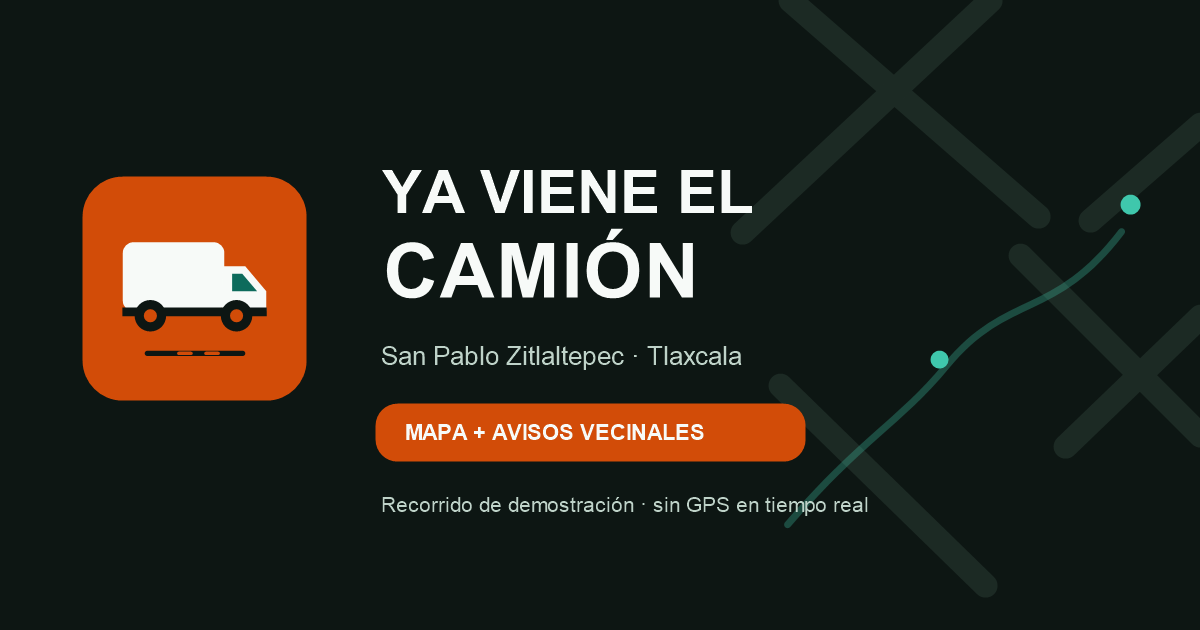
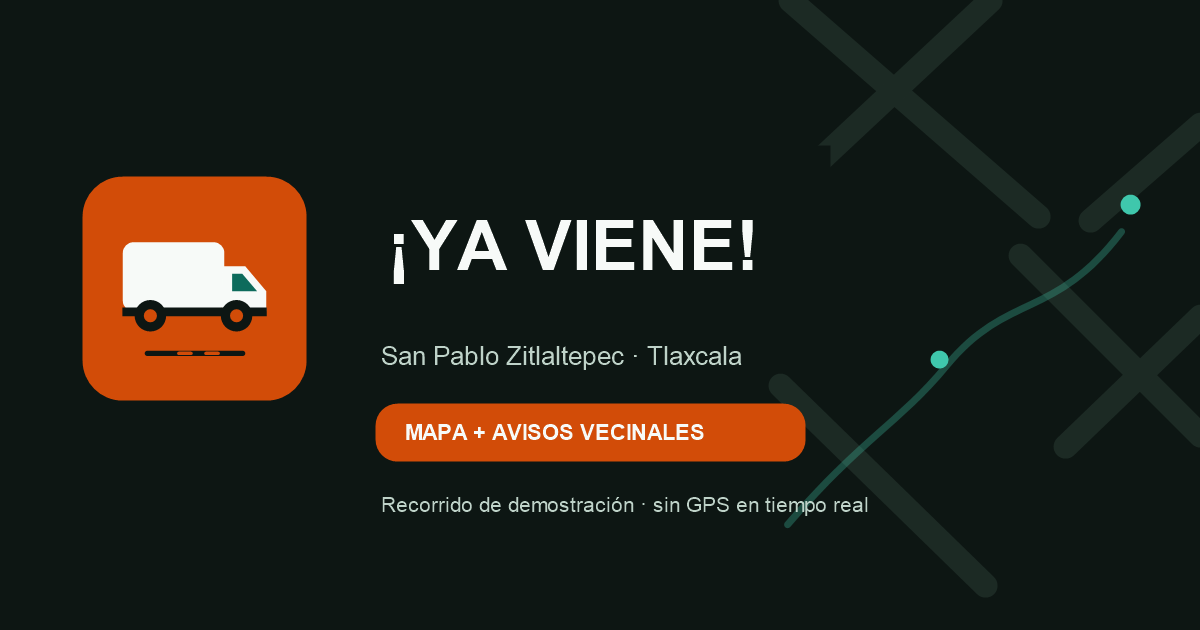
Renombra la aplicación a ¡Ya Viene!

Changed region(s): [[0.3083, 0.2714, 0.6475, 0.4825]]

diff --git a/index.html b/index.html
@@ -10,19 +10,19 @@
 <link rel="manifest" href="https://mt8541049-commits.github.io/ya-viene-el-camion-san-pablo-zitlaltepec/manifest.webmanifest">
 <link rel="icon" type="image/png" sizes="192x192" href="https://mt8541049-commits.github.io/ya-viene-el-camion-san-pablo-zitlaltepec/icon-192.png">
 <link rel="apple-touch-icon" sizes="180x180" href="https://mt8541049-commits.github.io/ya-viene-el-camion-san-pablo-zitlaltepec/apple-touch-icon.png">
-<title>Ya Viene el Camión</title>
+<title>¡Ya Viene! | San Pablo Zitlaltepec</title>
 <meta property="og:type" content="website">
 <meta property="og:url" content="https://mt8541049-commits.github.io/ya-viene-el-camion-san-pablo-zitlaltepec/">
-<meta property="og:title" content="Ya Viene el Camión | San Pablo Zitlaltepec">
+<meta property="og:title" content="¡Ya Viene! | San Pablo Zitlaltepec">
 <meta property="og:description" content="Mapa de demostración y avisos vecinales para San Pablo Zitlaltepec, Tlaxcala. El camión mostrado es simulado, no GPS en tiempo real.">
 <meta property="og:image" content="https://mt8541049-commits.github.io/ya-viene-el-camion-san-pablo-zitlaltepec/social-preview.png">
 <meta property="og:image:secure_url" content="https://mt8541049-commits.github.io/ya-viene-el-camion-san-pablo-zitlaltepec/social-preview.png">
 <meta property="og:image:type" content="image/png">
 <meta property="og:image:width" content="1200">
 <meta property="og:image:height" content="630">
-<meta property="og:image:alt" content="Ya Viene el Camión, mapa vecinal de demostración para San Pablo Zitlaltepec, Tlaxcala.">
+<meta property="og:image:alt" content="¡Ya Viene!, mapa vecinal de demostración para San Pablo Zitlaltepec, Tlaxcala.">
 <meta name="twitter:card" content="summary_large_image">
-<meta name="twitter:title" content="Ya Viene el Camión | San Pablo Zitlaltepec">
+<meta name="twitter:title" content="¡Ya Viene! | San Pablo Zitlaltepec">
 <meta name="twitter:description" content="Mapa de demostración y avisos vecinales para San Pablo Zitlaltepec, Tlaxcala.">
 <meta name="twitter:image" content="https://mt8541049-commits.github.io/ya-viene-el-camion-san-pablo-zitlaltepec/social-preview.png">
 <link rel="stylesheet" href="https://unpkg.com/leaflet@1.9.4/dist/leaflet.css">
@@ -245,7 +245,7 @@ button,.chip,.btn,.opt span{touch-action:manipulation}
         <svg width="28" height="28" viewBox="0 0 28 28" fill="currentColor"><rect x="1" y="7" width="15" height="11" rx="2"/><path d="M17 11h5l4 5v2h-9z"/><circle cx="7" cy="20" r="3" stroke="var(--accent)" stroke-width="1.5"/><circle cx="21" cy="20" r="3" stroke="var(--accent)" stroke-width="1.5"/></svg>
       </span>
       <div>
-        <h1>Ya viene el camión</h1>
+        <h1>¡Ya viene!</h1>
         <p class="sub">San Pablo Zitlaltepec, Tlaxcala</p>
       </div>
     </div>
@@ -788,7 +788,7 @@ if (!window.L) {
   }
   function mailFields(c){
     var tipo = CM_TIPOS[c.k] || 'Comentario';
-    return {_subject: 'Reporte del camión de San Pablo Zitlaltepec: ' + tipo, _template: 'table', _captcha: 'false', _url: window.location.href.split('#')[0], Proyecto: 'Ya viene el camión - San Pablo Zitlaltepec', 'Tipo de reporte': tipo, 'Descripción': c.x || '(Sin detalle adicional)', 'Fecha y hora': new Date(c.t).toLocaleString('es-MX')};
+    return {_subject: 'Reporte del camión de San Pablo Zitlaltepec: ' + tipo, _template: 'table', _captcha: 'false', _url: window.location.href.split('#')[0], Proyecto: '¡Ya Viene! - San Pablo Zitlaltepec', 'Tipo de reporte': tipo, 'Descripción': c.x || '(Sin detalle adicional)', 'Fecha y hora': new Date(c.t).toLocaleString('es-MX')};
   }
   function mailErrorMessage(ex){
     var msg = ex && ex.message ? ex.message : '';
